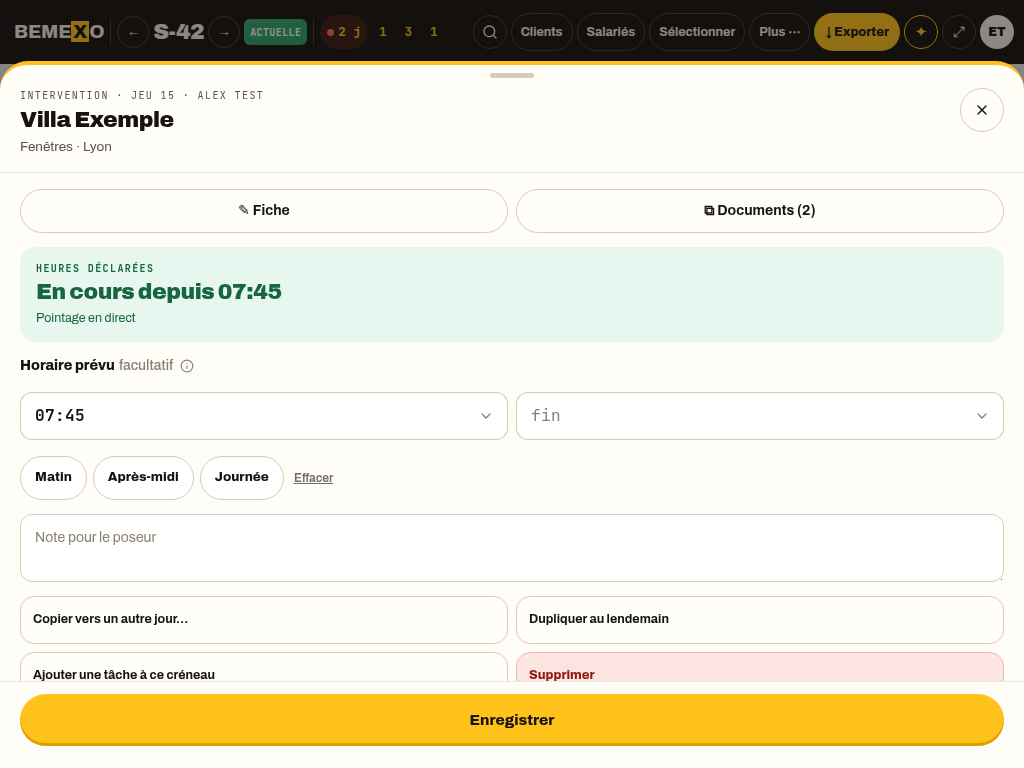
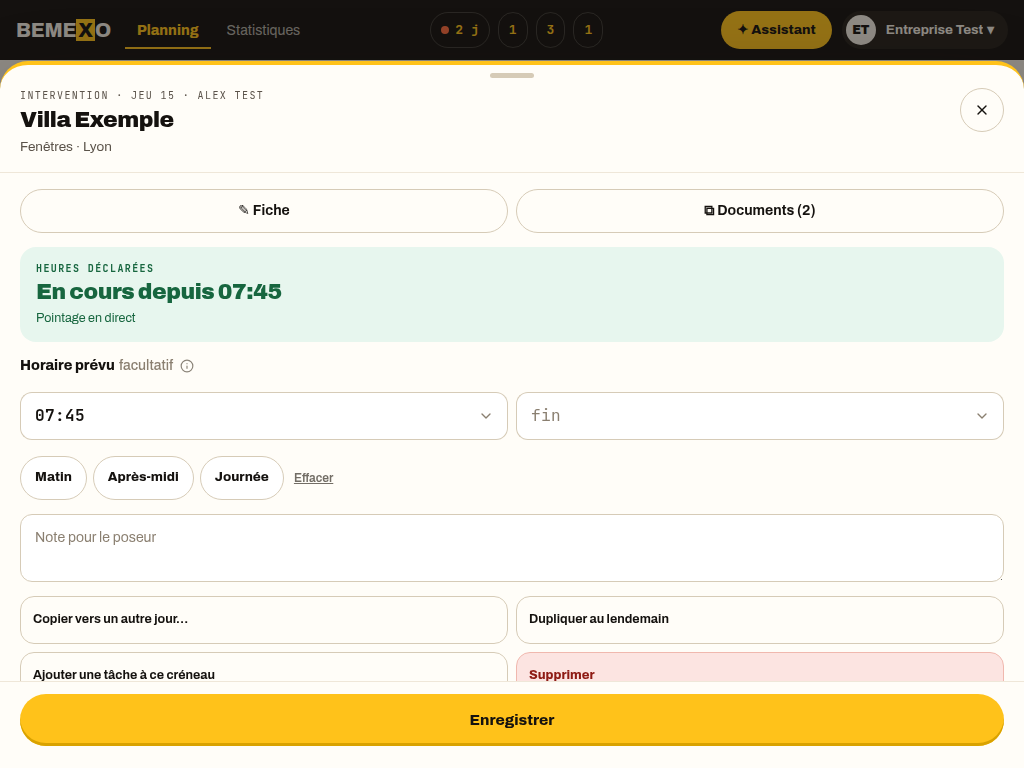
Planning 1a : captures planche | écran, preuves, écarts restants et point de reprise
Claude-Session: https://claude.ai/code/session_01UjXHEzdjb9t6bteo8SrVhu

Changed region(s): [[0.4062, 0.0, 1.0, 0.0938], [0.0, 0.0, 0.3438, 0.0938]]

diff --git a/docs/design-brief/integration/baseline-scripts.md b/docs/design-brief/integration/baseline-scripts.md
@@ -408,3 +408,36 @@ Images (`captures-planning-2a/`) : `compare-2b-telephone.png`, `compare-2c-feuil
 - Tablette 834 : pas de maquette dans la planche ; grille de l'ordinateur comme à 1 024 px : titre et horaire sur une ligne coupée par « … », étiquettes sur deux lignes au plus (coupées entre deux mots), absences « ABSENT · / MALADIE » à la ligne entre deux mots, charge du jour sous le numéro. Contrôle « aucun mot coupé en plein milieu à 834 ».
 
 **Choix tranchés** : seuil téléphone à 768 px (la tablette garde la grille, comme demandé) ; feuille 2c jusqu'à 1 024 px inclus (iPad paysage) ; plein écran ⤢ absent au téléphone (l'écran montre déjà le planning seul) ; Imprimer au téléphone ouvre le menu d'impression d'avant en bas de l'écran ; la recherche se tape dans ☰ et la liste dit « N salarié(s) pour « … » ». Limites connues, côté `admin-planning.tsx` non modifié : les guides pas à pas (éteints en v2) et la période par défaut d'Imprimer considèrent encore « petit écran » sous 1 024 px.
+
+## Après le retour de l'ORDINATEUR à la maquette 1a (18 oct. 2026, même PR #228, `/admin?ui=2`)
+
+Décision d'Ergun : à l'ordinateur (1 024 px et plus), il préfère la version **lot 1 / 1a** (préview 225) à la barre unique 2a. Référence : la planche `docs/design-brief/designer-essai/Essai nouveau design Bemexo.dc.html`, maquette **1a** « Bureau · ordinateur 1440 » (TOUR 1, cockpit et envoyées sombres allumés). Le téléphone 2b, la feuille 2c et la tablette (768 à 1 023 px : barre unique et grille compacte 2a) **ne bougent pas**. `admin-planning.tsx` non modifié ; mêmes gestionnaires.
+
+**Ce qui change** (morceau différé seulement) :
+- `planning-v2.tsx` : `useLargeur(REQ_ORDI)` (`(min-width: 1024px)`, `pont-v2.ts`) choisit la mise en page ; `data-mise="1a"` / `"2a"` sur `.dzp-bureau-desk`.
+- **Barre noire 1a** (`BarreNoire1a`, `barres-v2.tsx`) : 60 px, logo, onglets Planning / Statistiques, compteurs (à relancer, congés en attente, pièces, Réserves ; 36 px ; masqués à 0 ; un clic ouvre le détail des chiffres sous la barre, comme avant), « ✦ Assistant », compte.
+- **Ligne de semaine 1a** (`LigneSemaine1a`) dans l'ordre exact de la planche : SEMAINE ACTUELLE / S-42 12 – 18 octobre 2026, ← →, Aujourd'hui, **champ « Chercher un salarié, un chantier… »** (même filtre qu'avant), Clients, Salariés (pastille), Sélectionner, |, Plus ⋯ (pastille rouge des réserves), ↓ Exporter jaune, ⤢. Réserves, Borne, Imprimer, Coût chantiers, Pièces jointes, Versions, Interventions supprimées, Formations, e-mail, Légende, S'abonner : dans « Plus ⋯ » (Statistiques est l'onglet).
+- **Bandeau** : les quatre tuiles du 1a (`PanneauChiffres enLigne`, `bandeau-v2.tsx`), « Replier ▴ » au-dessus à droite (à la place de « Replier les chiffres »).
+- **Replier ▴** : masque d'un coup la ligne de semaine et le bandeau ; la barre noire reprend alors, au style de la barre 2a (36 / 38 px, pilules), ← S-42 12–18 oct. →, la loupe, ↓ Exporter et « Déplier ▾ » ; la grille se resserre (sans la ligne « produit · ville », une ligne par texte, « + ajouter » au survol). Choix gardé par utilisateur (`localStorage` `bt-bureau-haut-replie:<id>`).
+- **Plein écran** : code 2a réutilisé (⤢ ou F hors champ, Échap) ; la pastille est en bas à droite comme sur la planche 1a ; l'astuce flottante est masquée en plein écran.
+- **Grille et bulles du lot 1** (`grille-1a.tsx`, `CarteBulle planche1a`) recalées sur la planche : colonne 236 px, rayon 18, jour « Lun 12 / 6 interv. · 30 h », AUJ., avatars aux teintes de la planche, « 20.5 / 35 h envoyées » et jauge jaune → orange, horaires « ✓ 08:00–12:00 · 4h00 », sans l'étiquette ENVOYÉ ni la pastille de chantier ; légende toujours posée sous la grille. Mêmes cibles de dépôt et mêmes refus (`CaseDrop` partagé).
+- CSS : la grille compacte 2a est désormais limitée à `max-width: 1023px` ; tout le 1a est sous `min-width: 1024px` (resserrement à 1 024–1 439 et 1 024–1 279 px, textes coupés par « … », jamais à la ligne).
+
+| Preuve | Résultat |
+|---|---|
+| `PLANCHE_DIR=… node scripts/tests/planning-1a-controles.mjs out docs/design-brief/integration/captures-planning-1a 4433` (remplace `planning-2a-controles.mjs` ; planche : `LIBS_DIR=… node scripts/tests/planche-essai-2a.mjs <dossier> --1a`) | **44 ✅ / 0 ❌** : ordre de la barre noire et de la ligne de semaine, aucun trou > 24 px (écarts 23, 6, 6, 20, 20, 8, 8, 12, 12, 8, 8 px), x et largeur de chaque bouton à ±2 px de la planche, tailles et couleurs, bandeau, grille, recherche, Replier / Déplier gardés au rechargement, 8 salariés entiers à 1440 × 900 replié, plein écran, 1 024 et 1 280 px sans retour à la ligne ni débord, tablette 834 inchangée |
+| `planning-2b-controles.mjs` (téléphone, feuille, tablette) | **62 / 62** (la liste des fonctions de l'ordinateur suit la 1a ; 1 024 × 768 attend la grille 1a) |
+| `bureau-v1-identique.mjs` (sans `?ui=2`) | **7 / 7 identiques** |
+| Copies `ui2b-` du planning | voir le rapport de la PR (mêmes comptes qu'à l'étape précédente) |
+| `test:registre` 143 / 0 (clics 764 → 791, +1 fichier `grille-1a.tsx` ; ancres 234 → 249, mêmes valeurs posées par la 1a ; raisons dans `registre-surfaces.test.ts`) ; `test:guides-bureau` 28 / 28 (empreinte `guideForPrompt` intacte) ; typecheck ; eslint 0 erreur | vert |
+| Budgets | `/admin` 362 kB (363), `/borne` 171 (172), `/apercu/assistant-salarie` 290 (290), CSS `/admin` 14,2 kB (20) : inchangés, aucun plafond relevé |
+
+Images (`captures-planning-1a/`) : `compare-1a-1440.png` (planche 1a à gauche, écran déplié à droite, même échelle, hauteur réelle), `1a-deplie-1440.png`, `1a-replie-1440.png`, `1a-pleinecran-1440.png`, `1a-recherche-1440.png`, `1a-1024.png`, `1a-replie-1024.png`. `captures-planning-2a/2c-feuille-1024.png` régénérée (fond 1a).
+
+**Écarts restants avec la planche 1a, zone par zone** :
+- Barre noire : identique au pixel près ou presque (Assistant 108 au lieu de 110,5 px) ; le libellé « Réserves » est repris tel quel ; S'abonner / essai sont en tête de « Plus ⋯ » (la planche ne les montre pas). Repliée, sous 1 440 px les compteurs ne gardent que leur chiffre (libellé en infobulle).
+- Ligne de semaine : au pixel près (±1,4 px) ; le texte d'attente du champ est coupé par « … » (la planche le passe sur deux lignes, impossible dans un champ). Sous 1 280 px : dates masquées (infobulle), boutons de 40 px.
+- Bandeau : mêmes tuiles ; la tuile « À relancer » est un bouton qui ouvre le détail avec la liste (comme les compteurs).
+- Grille : colonne salarié de 236 px (le HTML ; le moteur de la planche rend des colonnes égales de 174 px) ; la réunion garde la carte du lot 1 (sans l'étiquette « RÉUNION · HORS HEURES ») et vient après les interventions ; absences « Arrêt maladie » (planche « ABSENT · MALADIE ») avec la plage « du 15 au 16 » au lieu de la note ; l'étiquette « PAS D'HEURES ENVOYÉES » du lot 1 reste ; la légende a les 14 entrées du lot 1 (la planche en montre 9) ; « ⧉ 2 » au lieu de « ⧉2 ».
+
+**Choix tranchés** : la tablette garde barre unique + grille 2a (rien ne bouge sous 1 024 px) ; bandeau à 4 tuiles (planche) au lieu des 5 du lot 1 (les pièces sont un compteur de la barre et une ligne de « Plus ⋯ ») ; « Replier » remplace l'ancien repli des chiffres (une seule clé de mémoire, nouvelle) ; ⤢ absent de la barre repliée (la touche F reste) ; pastille du plein écran en bas à droite (planche 1a) ; Statistiques retiré de « Plus ⋯ » à l'ordinateur (onglet) ; texte d'attente « Chercher un salarié, un chantier… » (consigne d'Ergun, planche : « un client »).

diff --git a/docs/REPRISE.md b/docs/REPRISE.md
@@ -41,3 +41,4 @@
 - **Retouches d'arbitrage du salarié (17 oct. 2026, 6 points d'Ergun)** : (1) Semaine et Mois ont la bande des 7 jours dans l'en-tête sombre, comme la Journée ; (2) cartes jour blanches avec bordure gauche de 4 px par état (vert envoyé, rouge à envoyer, violet prévu, gris absence, jaune aujourd'hui) et total d'heures en gras à droite (`data-carte`, `vues-v2.css`) ; (3) quatre couleurs vives en plus du noir ; (4) « Historique » sort du menu du compte et devient un lien en bas du Mois (`data-guide="menu.historique"`, guide v2 mis à jour, `avant-3b1.snapshot.json` régénéré une 4e fois : seuls `guides.salarie`, `global`, 55 consignes et `_aide` bougent) ; (5) ✦ jaune FLOTTANT en bas à droite au-dessus de la barre, sur Journée, Semaine et Mois (plus dans l'en-tête) ; (6) le Mois reprend les couleurs d'état. Preuves : fidélité 520 ✅ / 0 ❌, équilibre 73 ✅, coque 31 ✅, `test:registre` 143, `test:guides` 17 ; captures `docs/design-brief/integration/captures-arbitrage/`. Échecs déjà présents sur main sans ces retouches (identiques mesurés) : salarie-lot9 (4), salarie-lot10 (1), requetes-lot29 (2), guides-lot7 (timeout assistant) — tests écrits pour l'ancienne interface, à rejouer via `ui2-copies.mjs`. `/poseur` 280,0 kB pour un plafond de 280 : plus aucune marge.
 - **Planning du BUREAU, planche d'essai 2a (17 oct. 2026, PR brouillon `claude/planning-2a`, rien de déployé, ÉTEINT : `?ui=2`)** : la direction **v2b « Couleur » (#227) est REFUSÉE** et annulée (revert de `8a35ed7`) ; **la 2a est retenue** (référence unique : `docs/design-brief/designer-essai/Essai nouveau design Bemexo.dc.html`, maquette 2a, réglages par défaut), posée sur la base du lot 1. **Étape ORDINATEUR FAITE** : barre noire unique de 64 px (logo, semaine, compteurs masqués à 0, loupe, Clients, Salariés, Sélectionner, Plus ⋯, ↓ Exporter, ✦, ⤢, avatar), tout le reste dans « Plus ⋯ », menu des chiffres (tuiles du 1a) au clic sur un compteur, plein écran (⤢ ou F, Échap), recherche, grille compacte. `admin-planning.tsx` non modifié ; sans drapeau `/admin` identique (7/7). Preuves et écarts : `baseline-scripts.md` (« Après le planning 2a »), `captures-planning-2a/`, `node scripts/tests/planning-2a-controles.mjs` (39/39). **Reste : téléphone et tablette (étape suivante)**, puis guides v2 du planning à revoir (ils parlent encore de la barre de semaine du lot 1, éteints) et la bascule.
 - **Planning 2a, étape TÉLÉPHONE + TABLETTE FAITE (17 oct. 2026, même PR #228, ÉTEINT : `?ui=2`)** : téléphone sous 768 px = planche 2b (en-tête sombre, bascule Jour / Semaine, cartes par salarié, mosaïque), menu ☰ qui reprend TOUT ce que la barre et « Plus ⋯ » offrent (semaine, recherche, chiffres et tuiles, Imprimer, Pièces jointes…), fiche en feuille du bas 2c à 1 024 px et moins (92 %), tablette 834 / 1024 sur la grille de l'ordinateur sans défilement horizontal. `admin-planning.tsx` non modifié ; sans drapeau `/admin` identique (7/7). Preuves et écarts : `baseline-scripts.md` (« Après l'étape TÉLÉPHONE + TABLETTE »), `node scripts/tests/planning-2b-controles.mjs` (62/62), `captures-planning-2a/` (compare-2b-telephone, compare-2c-feuille…). Budgets inchangés (`/admin` 362). **Reste** : guides v2 du planning à revoir (éteints) ; seuil « petit écran » de 1 024 px dans `admin-planning.tsx` (guides, Imprimer) à aligner sur 768 au moment de la bascule ; bascule.
+- **Planning, ORDINATEUR revenu à la maquette 1a (18 oct. 2026, même PR #228, ÉTEINT : `?ui=2`)** : décision d'Ergun, à 1 024 px et plus la version lot 1 / 1a (préview 225) remplace la barre unique 2a : barre noire 60 px (logo, Planning / Statistiques, compteurs masqués à 0, ✦ Assistant, compte), ligne de semaine dans l'ordre exact de la planche 1a avec le champ « Chercher un salarié, un chantier… » (au pixel près, ±1,4 px), bandeau des 4 tuiles, grille et bulles du lot 1 (`grille-1a.tsx`) recalées sur la planche. NOUVEAU « Replier ▴ » : masque ligne de semaine + bandeau, la barre noire reprend ← S-42 →, loupe, Exporter, « Déplier ▾ » (style 2a), mémorisé par utilisateur ; plein écran ⤢ / F / Échap (code 2a). Téléphone 2b, feuille 2c et tablette (barre unique + grille 2a, 768–1 023 px) inchangés. `admin-planning.tsx` non modifié. Preuves et écarts : `baseline-scripts.md` (« Après le retour de l'ORDINATEUR à la maquette 1a »), `captures-planning-1a/`, `node scripts/tests/planning-1a-controles.mjs` (44/44, remplace planning-2a-controles), `planning-2b-controles.mjs` 62/62, v1 identique 7/7, budgets inchangés (`/admin` 362). **Reste** : guides v2 du planning à revoir (éteints, ils décrivent encore le lot 1, ce qui redevient juste à l'ordinateur), bascule.
